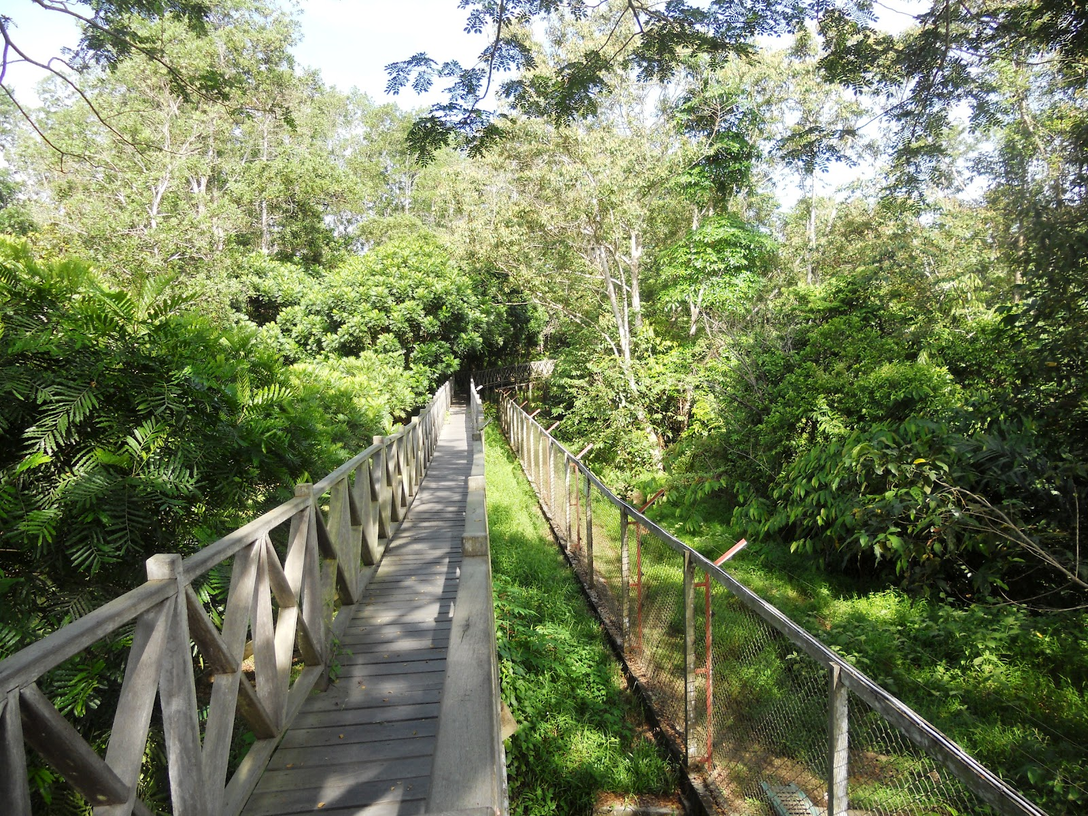
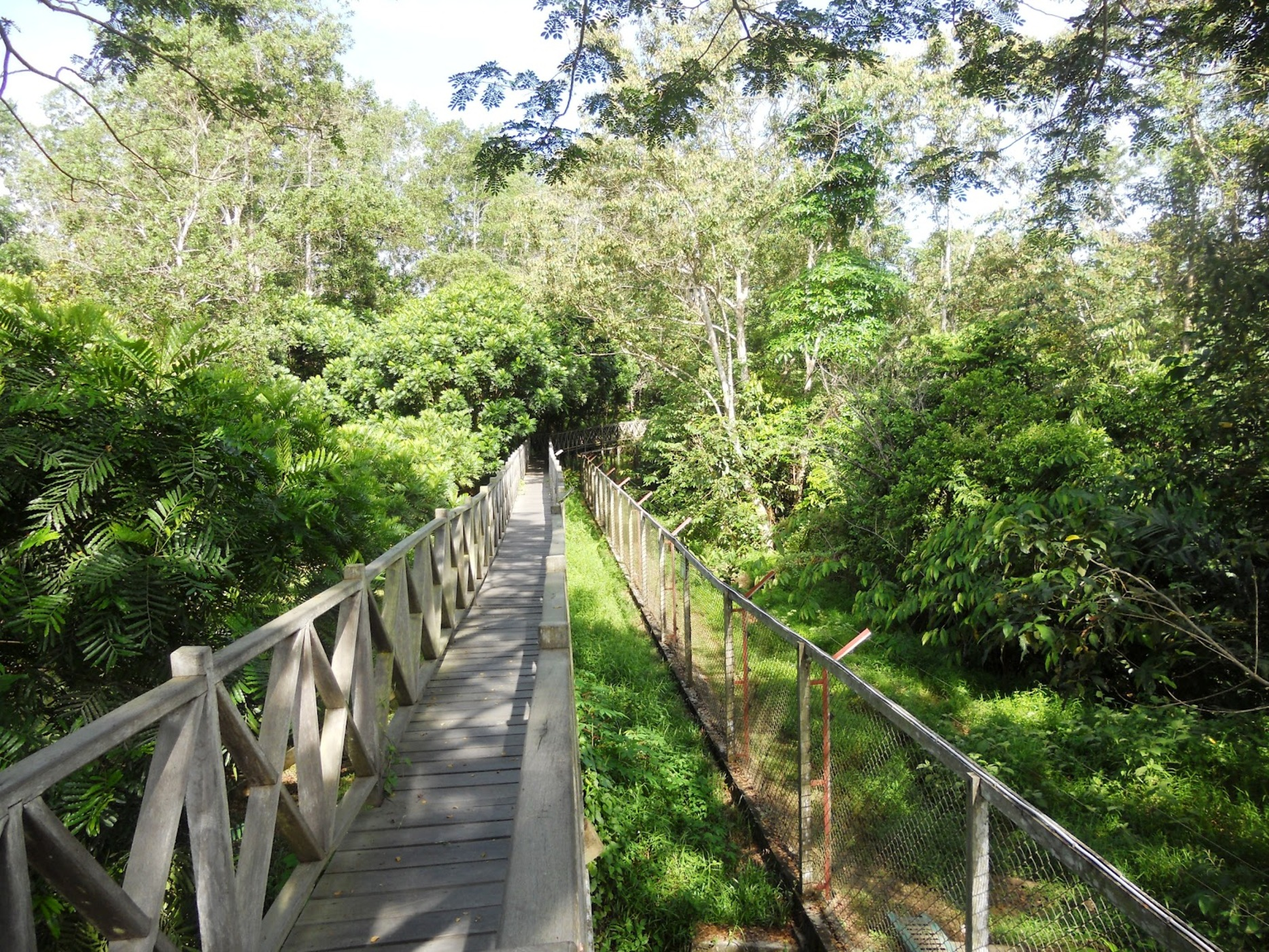
carousel udh bener blok

diff --git a/index.html b/index.html
@@ -112,7 +112,7 @@
     </nav> <!-- end of navbar -->
     <!-- end of navbar -->
 
-    <div id="my-carousel" class="carousel slide" data-ride="carousel" data-interval="1000">
+    <div id="my-carousel" class="carousel slide" data-ride="carousel" data-interval="5000">
         <ol class="carousel-indicators">
             <li class="active" data-target="#my-carousel" data-slide-to="0" aria-current="location"></li>
             <li data-target="#my-carousel" data-slide-to="1"></li>
@@ -120,21 +120,21 @@
         </ol>
         <div class="carousel-inner text-center">
             <div class="carousel-item active">
-                <img class="d-block w-100" src="images/DJI_0338_JPG.jpg" alt="">
+                <img class="d-block w-100" src="images/DJI_0338_JPG Cropped.jpg" alt="">
                 <div class="carousel-caption d-none d-md-block ">
                     <h5>BLA BLA BLA</h5>
                     <p>blablablablabla</p>
                 </div>
             </div>
             <div class="carousel-item">
-                <img class="d-block w-100" src="images/header-sun-bear-2880.jpg" alt="">
+                <img class="d-block w-100" src="images/header-sun-bear-2880 Cropped.jpg" alt="">
                 <div class="carousel-caption d-none d-md-block">
                     <h5>Title</h5>
                     <p>Text</p>
                 </div>
             </div>
             <div class="carousel-item">
-                <img class="d-block w-100" src="images/hutan-lindung-sungai-wain.jpeg" alt="">
+                <img class="d-block w-100" src="images/hutan-lindung-sungai-wain Cropped.jpg" alt="">
                 <div class="carousel-caption d-none d-md-block">
                     <h5>Title</h5>
                     <p>Text</p>
